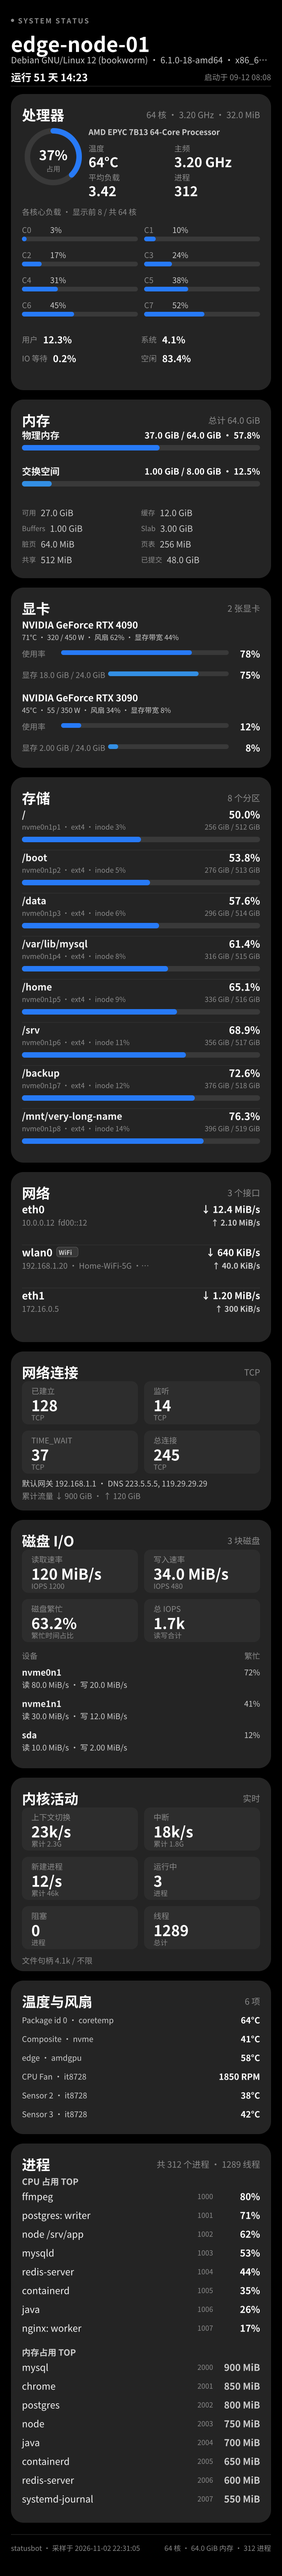
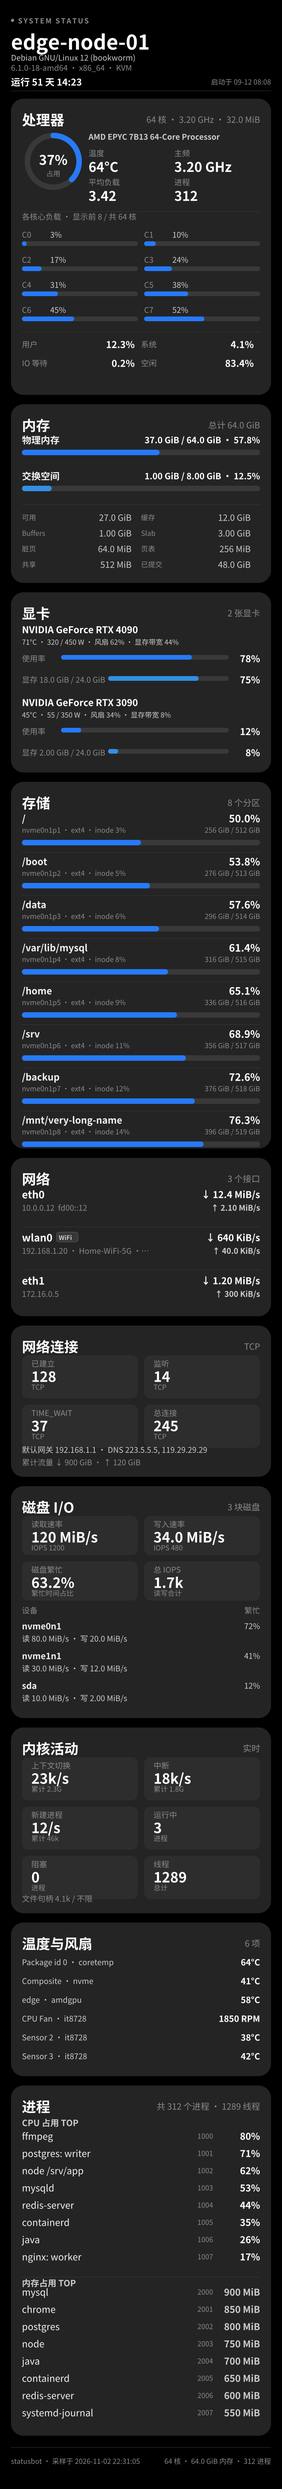
style: 优化手机端间距与信息层级

Changed region(s): [[0.0306, 0.0, 0.9778, 0.9972], [0.1833, 0.966, 0.3361, 0.9972]]

diff --git a/internal/render/sections.go b/internal/render/sections.go
@@ -67,6 +67,8 @@ func (c *cv) sectionCPU(y float64) float64 {
 		c.strMid(values[i], x, contentY+96+float64(row)*74, 34, true, colStrong, 0)
 	}
 
+	c.hairline(innerX, contentY+212, innerW)
+
 	coreLabel := "各核心负载"
 	if c.snap.CPU.Cores > 8 {
 		coreLabel = fmt.Sprintf("各核心负载 · 显示前 8 / 共 %d 核", c.snap.CPU.Cores)
@@ -91,6 +93,7 @@ func (c *cv) sectionCPU(y float64) float64 {
 	}
 
 	timeTop := gridTop + float64(c.coreRows())*64 + 24
+	c.hairline(innerX, timeTop-16, innerW)
 	items := []struct {
 		label string
 		value float64
@@ -107,8 +110,8 @@ func (c *cv) sectionCPU(y float64) float64 {
 		x := innerX + float64(colIdx)*halfW
 		cy := timeTop + 14 + float64(row)*48
 		c.strMid(item.label, x, cy, 20, false, colMuted, 0)
-		lw := c.measure(item.label, 20, false)
-		c.strMid(fmtPct(item.value), x+lw+14, cy, 24, true, colStrong, 0)
+		rx := x + halfW - 16
+		c.strMid(fmtPct(item.value), rx, cy, 24, true, colStrong, 2)
 	}
 	return y + h + cardGap
 }
@@ -147,6 +150,7 @@ func (c *cv) sectionMemory(y float64) float64 {
 		{"共享", fmtBytes(m.Shmem)},
 		{"已提交", fmtBytes(m.Committed)},
 	}
+	c.hairline(innerX, contentY+180, innerW)
 	gridTop := contentY + 192
 	const cols = 2
 	cellW := innerW / cols
@@ -156,8 +160,7 @@ func (c *cv) sectionMemory(y float64) float64 {
 		x := innerX + float64(colIdx)*cellW
 		cy := gridTop + float64(row)*40 + 20
 		c.strMid(item.label, x, cy, 18, false, colMuted, 0)
-		lw := c.measure(item.label, 18, false)
-		c.strMid(item.value, x+lw+12, cy, 22, false, colSub, 0)
+		c.strMid(item.value, x+cellW-24, cy, 22, false, colSub, 2)
 	}
 	return y + h + cardGap
 }
@@ -250,7 +253,7 @@ func fanText(g sysinfo.GPU) string {
 // ---------- 存储 ----------
 
 func (c *cv) diskHeight() float64 {
-	return 76 + float64(len(c.snap.Disks))*110 + 28
+	return 76 + float64(len(c.snap.Disks))*104 + 28
 }
 
 func (c *cv) sectionDisks(y float64) float64 {
@@ -265,8 +268,8 @@ func (c *cv) sectionDisks(y float64) float64 {
 			pct = float64(d.Used) / float64(d.Total) * 100
 		}
 
-		c.strMid(c.fit(d.Mount, innerW-150, 24, true), innerX, ry+18, 24, true, colText, 0)
-		c.strMid(fmtPct(pct), innerX+innerW, ry+18, 26, true, colStrong, 2)
+		c.strMid(c.fit(d.Mount, innerW-150, 24, true), innerX, ry+16, 24, true, colText, 0)
+		c.strMid(fmtPct(pct), innerX+innerW, ry+16, 26, true, colStrong, 2)
 
 		dev := strings.TrimPrefix(d.Device, "/dev/")
 		if dev == "" || dev == "overlay" {
@@ -278,13 +281,13 @@ func (c *cv) sectionDisks(y float64) float64 {
 			inodePct := float64(d.InodesUsed) / float64(d.Inodes) * 100
 			dev += " · inode " + fmtPct0(inodePct)
 		}
-		c.strMid(c.fit(dev, innerW-200, 18, false), innerX, ry+50, 18, false, colMuted, 0)
-		c.strMid(fmt.Sprintf("%s / %s", fmtBytes(d.Used), fmtBytes(d.Total)), innerX+innerW, ry+50, 18, false, colMuted, 2)
+		c.strMid(c.fit(dev, innerW-200, 18, false), innerX, ry+46, 18, false, colMuted, 0)
+		c.strMid(fmt.Sprintf("%s / %s", fmtBytes(d.Used), fmtBytes(d.Total)), innerX+innerW, ry+46, 18, false, colMuted, 2)
 
-		c.bar(innerX, ry+76, innerW, 14, pct, healthColor(pct))
+		c.bar(innerX, ry+72, innerW, 14, pct, healthColor(pct))
 
 		if i < len(disks)-1 {
-			c.hairline(innerX, ry+110, innerW)
+			c.hairline(innerX, ry+104, innerW)
 		}
 	}
 	return y + h + cardGap
@@ -293,7 +296,7 @@ func (c *cv) sectionDisks(y float64) float64 {
 // ---------- 网络 ----------
 
 func (c *cv) netHeight() float64 {
-	return 76 + float64(len(c.snap.Nets))*110 + 28
+	return 76 + float64(len(c.snap.Nets))*100 + 28
 }
 
 func (c *cv) sectionNets(y float64) float64 {
@@ -305,10 +308,10 @@ func (c *cv) sectionNets(y float64) float64 {
 		ry := contentY + float64(i)*110
 
 		name := c.fit(n.Name, 240, 26, true)
-		c.strMid(name, innerX, ry+18, 26, true, colStrong, 0)
+		c.strMid(name, innerX, ry+16, 26, true, colStrong, 0)
 		nameW := c.measure(name, 26, true)
 		if n.Wireless {
-			c.tag(innerX+nameW+10, ry+18, "WiFi", colSub)
+			c.tag(innerX+nameW+10, ry+16, "WiFi", colSub)
 		}
 
 		addr := strings.Join(n.Addrs, "  ")
@@ -320,13 +323,13 @@ func (c *cv) sectionNets(y float64) float64 {
 			addr = joinNonEmpty(addr, n.SSID, "信号 "+fmtPct0(float64(q)))
 		}
 		addr = c.fit(addr, innerW-280, 20, false)
-		c.strMid(addr, innerX, ry+52, 20, false, colMuted, 0)
+		c.strMid(addr, innerX, ry+50, 20, false, colMuted, 0)
 
-		c.strMid(speedText(n.RxRate, true), innerX+innerW, ry+18, 24, true, colStrong, 2)
-		c.strMid(speedText(n.TxRate, false), innerX+innerW, ry+52, 20, true, colSub, 2)
+		c.strMid(speedText(n.RxRate, true), innerX+innerW, ry+16, 24, true, colStrong, 2)
+		c.strMid(speedText(n.TxRate, false), innerX+innerW, ry+50, 20, true, colSub, 2)
 
 		if i < len(nets)-1 {
-			c.hairline(innerX, ry+110, innerW)
+			c.hairline(innerX, ry+100, innerW)
 		}
 	}
 	return y + h + cardGap
@@ -357,7 +360,7 @@ func speedText(v float64, down bool) string {
 
 // ---------- 网络连接 ----------
 
-func (c *cv) netStatsHeight() float64 { return 406 }
+func (c *cv) netStatsHeight() float64 { return 386 }
 
 func (c *cv) sectionNetStats(y float64) float64 {
 	h := c.netStatsHeight()
@@ -391,10 +394,10 @@ func (c *cv) sectionNetStats(y float64) float64 {
 		dns = strings.Join(st.DNS, ", ")
 	}
 	line1 := c.fit("默认网关 "+gateway+" · DNS "+dns, innerW, 20, false)
-	c.strMid(line1, innerX, contentY+260, 20, false, colSub, 0)
+	c.strMid(line1, innerX, contentY+240, 20, false, colSub, 0)
 
 	line2 := fmt.Sprintf("累计流量 ↓ %s · ↑ %s", fmtBytes(st.RxTotal), fmtBytes(st.TxTotal))
-	c.strMid(line2, innerX, contentY+292, 20, false, colMuted, 0)
+	c.strMid(line2, innerX, contentY+272, 20, false, colMuted, 0)
 	return y + h + cardGap
 }
 
@@ -403,9 +406,9 @@ func (c *cv) sectionNetStats(y float64) float64 {
 func (c *cv) ioHeight() float64 {
 	n := minInt(len(c.snap.IO.Disks), 4)
 	if n == 0 {
-		return 76 + 236 + 28
+		return 320
 	}
-	return 394 + float64(n)*80
+	return 364 + float64(n)*76
 }
 
 func (c *cv) sectionIO(y float64) float64 {
@@ -428,7 +431,7 @@ func (c *cv) sectionIO(y float64) float64 {
 	for i, t := range tiles {
 		row := i / 2
 		colIdx := i % 2
-		c.tile(innerX+float64(colIdx)*(tw+gap), contentY+float64(row)*126, tw, 110, t.label, t.value, t.sub, colStrong)
+		c.tile(innerX+float64(colIdx)*(tw+gap), contentY+float64(row)*116, tw, 100, t.label, t.value, t.sub, colStrong)
 	}
 
 	disks := io.Disks
@@ -436,15 +439,15 @@ func (c *cv) sectionIO(y float64) float64 {
 		disks = disks[:4]
 	}
 	if len(disks) > 0 {
-		c.strMid("设备", innerX, contentY+270, 20, false, colMuted, 0)
-		c.strMid("繁忙", innerX+innerW, contentY+270, 20, false, colMuted, 2)
+		c.strMid("设备", innerX, contentY+240, 20, false, colMuted, 0)
+		c.strMid("繁忙", innerX+innerW, contentY+240, 20, false, colMuted, 2)
 
 		for i, d := range disks {
-			ry := contentY + 290 + float64(i)*80
-			c.strMid(c.fit(d.Name, innerW-140, 22, true), innerX, ry+22, 22, true, colText, 0)
-			c.strMid(fmtPct0(d.Util), innerX+innerW, ry+22, 20, false, colSub, 2)
+			ry := contentY + 260 + float64(i)*76
+			c.strMid(c.fit(d.Name, innerW-140, 22, true), innerX, ry+20, 22, true, colText, 0)
+			c.strMid(fmtPct0(d.Util), innerX+innerW, ry+20, 20, false, colSub, 2)
 			line := fmt.Sprintf("读 %s · 写 %s", fmtRate(d.ReadBps), fmtRate(d.WriteBps))
-			c.strMid(line, innerX, ry+54, 20, false, colSub, 0)
+			c.strMid(line, innerX, ry+52, 20, false, colSub, 0)
 		}
 	}
 	return y + h + cardGap
@@ -452,7 +455,7 @@ func (c *cv) sectionIO(y float64) float64 {
 
 // ---------- 内核 ----------
 
-func (c *cv) kernelHeight() float64 { return 494 }
+func (c *cv) kernelHeight() float64 { return 474 }
 
 func (c *cv) sectionKernel(y float64) float64 {
 	h := c.kernelHeight()
@@ -484,7 +487,7 @@ func (c *cv) sectionKernel(y float64) float64 {
 		fhMax = "不限"
 	}
 	fh := fmt.Sprintf("文件句柄 %s / %s", fmtCompactU(k.FileHandles), fhMax)
-	c.strMid(fh, innerX, contentY+390, 20, false, colMuted, 0)
+	c.strMid(fh, innerX, contentY+360, 20, false, colMuted, 0)
 	return y + h + cardGap
 }
 
@@ -522,7 +525,7 @@ func (c *cv) procHeight() float64 {
 	if len(c.snap.ProcsMem) > n {
 		n = len(c.snap.ProcsMem)
 	}
-	return 200 + float64(n)*96
+	return 190 + float64(n)*88
 }
 
 func (c *cv) sectionProcs(y float64) float64 {
@@ -533,19 +536,20 @@ func (c *cv) sectionProcs(y float64) float64 {
 	}
 	innerX, contentY, innerW := c.card(y, h, "进程", meta)
 
-	c.strMid("CPU 占用 TOP", innerX, contentY+20, 22, true, colSub, 0)
+	c.strMid("CPU 占用 TOP", innerX, contentY+18, 22, true, colSub, 0)
 	for i, p := range c.snap.ProcsCPU {
-		c.procRow(innerX, contentY+44+float64(i)*48, innerW, p, false)
+		c.procRow(innerX, contentY+40+float64(i)*44, innerW, p, false)
 	}
 
 	n := len(c.snap.ProcsCPU)
 	if len(c.snap.ProcsMem) > n {
 		n = len(c.snap.ProcsMem)
 	}
-	header2 := contentY + 72 + float64(n)*48
+	header2 := contentY + 75 + float64(n)*44
+	c.hairline(innerX, header2-14, innerW)
 	c.strMid("内存占用 TOP", innerX, header2, 22, true, colSub, 0)
 	for i, p := range c.snap.ProcsMem {
-		c.procRow(innerX, header2+24+float64(i)*48, innerW, p, true)
+		c.procRow(innerX, header2+11+float64(i)*44, innerW, p, true)
 	}
 	return y + h + cardGap
 }
@@ -559,7 +563,7 @@ func (c *cv) procRow(x, y, w float64, p sysinfo.Proc, mem bool) {
 	}
 
 	name := c.fit(p.Name, w-190, 24, false)
-	c.strMid(name, x, y+14, 24, false, colText, 0)
-	c.strMid(fmt.Sprintf("%d", p.PID), x+w-120, y+14, 18, false, colMuted, 2)
-	c.strMid(value, x+w, y+14, 24, true, vcCol, 2)
+	c.strMid(name, x, y+12, 24, false, colText, 0)
+	c.strMid(fmt.Sprintf("%d", p.PID), x+w-120, y+12, 18, false, colMuted, 2)
+	c.strMid(value, x+w, y+12, 24, true, vcCol, 2)
 }

diff --git a/internal/render/render.go b/internal/render/render.go
@@ -21,7 +21,7 @@ const (
 	contentW  = designW - 2*marginX
 	cardPad   = 28
 	cardGap   = 24
-	headerH   = 240
+	headerH   = 252
 	footerH   = 80
 	bottomPad = 32
 )
@@ -124,16 +124,18 @@ func (c *cv) drawHeader() {
 	c.spaced("SYSTEM STATUS", x+18, 52, 18, 3, colMuted)
 
 	hostname := c.fit(c.snap.Host.Hostname, contentW, 52, true)
-	c.strMid(hostname, x, 110, 52, true, colStrong, 0)
+	c.strMid(hostname, x, 104, 52, true, colStrong, 0)
 
-	meta := joinNonEmpty(c.snap.Host.OS, c.snap.Host.Kernel, c.snap.Host.Arch, c.snap.Host.Virt)
-	meta = c.fit(meta, contentW, 22, false)
-	c.strMid(meta, x, 152, 22, false, colSub, 0)
+	osLine := c.fit(c.snap.Host.OS, contentW, 20, false)
+	c.strMid(osLine, x, 146, 20, false, colSub, 0)
+	meta := joinNonEmpty(c.snap.Host.Kernel, c.snap.Host.Arch, c.snap.Host.Virt)
+	meta = c.fit(meta, contentW, 20, false)
+	c.strMid(meta, x, 172, 20, false, colMuted, 0)
 
-	c.strMid("运行 "+fmtUptime(c.snap.Host.Uptime), x, 196, 26, true, colStrong, 0)
-	c.strMid("启动于 "+fmtBoot(c.snap.Host.BootTime), right, 196, 20, false, colMuted, 2)
+	c.strMid("运行 "+fmtUptime(c.snap.Host.Uptime), x, 208, 24, true, colStrong, 0)
+	c.strMid("启动于 "+fmtBoot(c.snap.Host.BootTime), right, 208, 18, false, colMuted, 2)
 
-	c.hairline(x, 220, contentW)
+	c.hairline(x, 232, contentW)
 }
 
 func (c *cv) drawFooter(y float64) {

diff --git a/internal/render/widgets.go b/internal/render/widgets.go
@@ -179,9 +179,9 @@ func (c *cv) ring(cx, cy, radius, stroke, pct float64, col color.NRGBA) {
 func (c *cv) tile(x, y, w, h float64, label, value, sub string, col color.NRGBA) {
 	c.roundedFill(x, y, w, h, 16, colCardHigh)
 
-	c.strMid(label, x+24, y+24, 20, false, colMuted, 0)
-	c.strMid(value, x+24, y+60, 38, true, col, 0)
-	c.strMid(sub, x+24, y+92, 18, false, colMuted, 0)
+	c.strMid(label, x+24, y+20, 20, false, colMuted, 0)
+	c.strMid(value, x+24, y+52, 36, true, col, 0)
+	c.strMid(sub, x+24, y+80, 18, false, colMuted, 0)
 }
 
 func (c *cv) tag(x, y float64, text string, col color.NRGBA) float64 {
